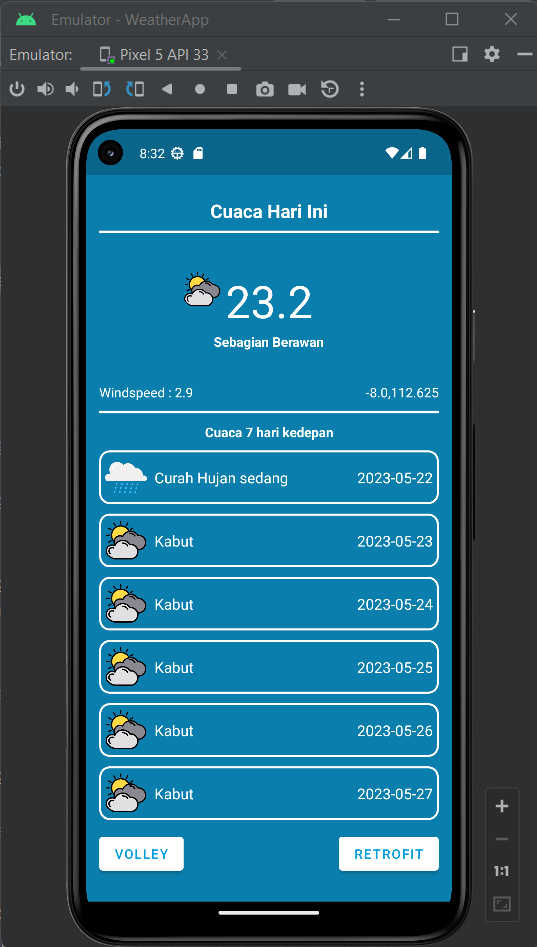
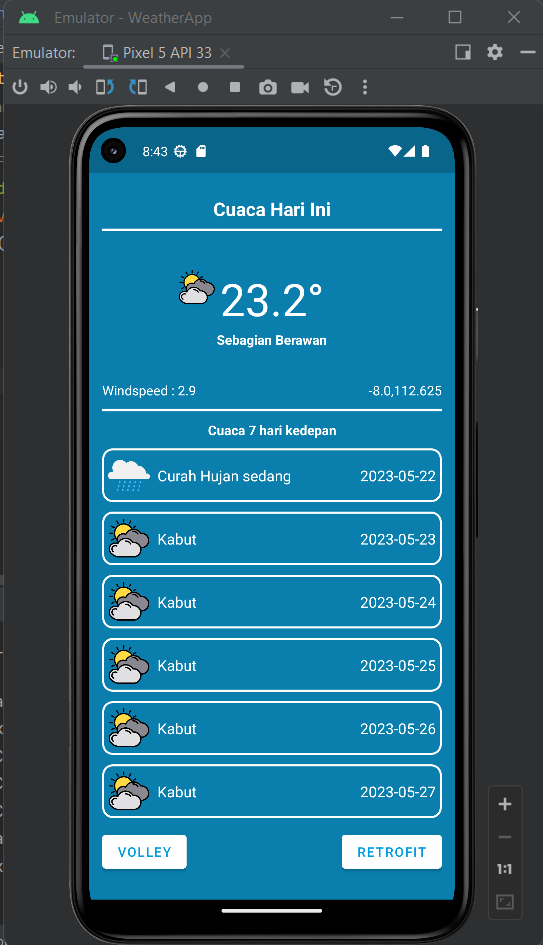
edit MainActivity and image

diff --git a/app/src/main/java/fat/mobile/weatherapp/MainActivity.java b/app/src/main/java/fat/mobile/weatherapp/MainActivity.java
@@ -119,7 +119,7 @@ public class MainActivity extends AppCompatActivity implements View.OnClickListe
                     WeatherModelRetrofit data = response.body();
                     binding.txtLonglatCrn.setText(String.valueOf(data.getLatitude()) + ","+String.valueOf(data.getLongitude()));
                     binding.txtWsCr.setText("Windspeed : " + String.valueOf(data.getCurrent_weather().getWindspeed()));
-                    binding.txtTemperatureCrn.setText(String.valueOf(data.getCurrent_weather().getTemperature()));
+                    binding.txtTemperatureCrn.setText(String.valueOf(data.getCurrent_weather().getTemperature()) + "°");
                     binding.txtKondisiCrn.setText(CodeWeather(data.getCurrent_weather().getWeathercode()));
 
                     binding.recyclerView.setHasFixedSize(true);
